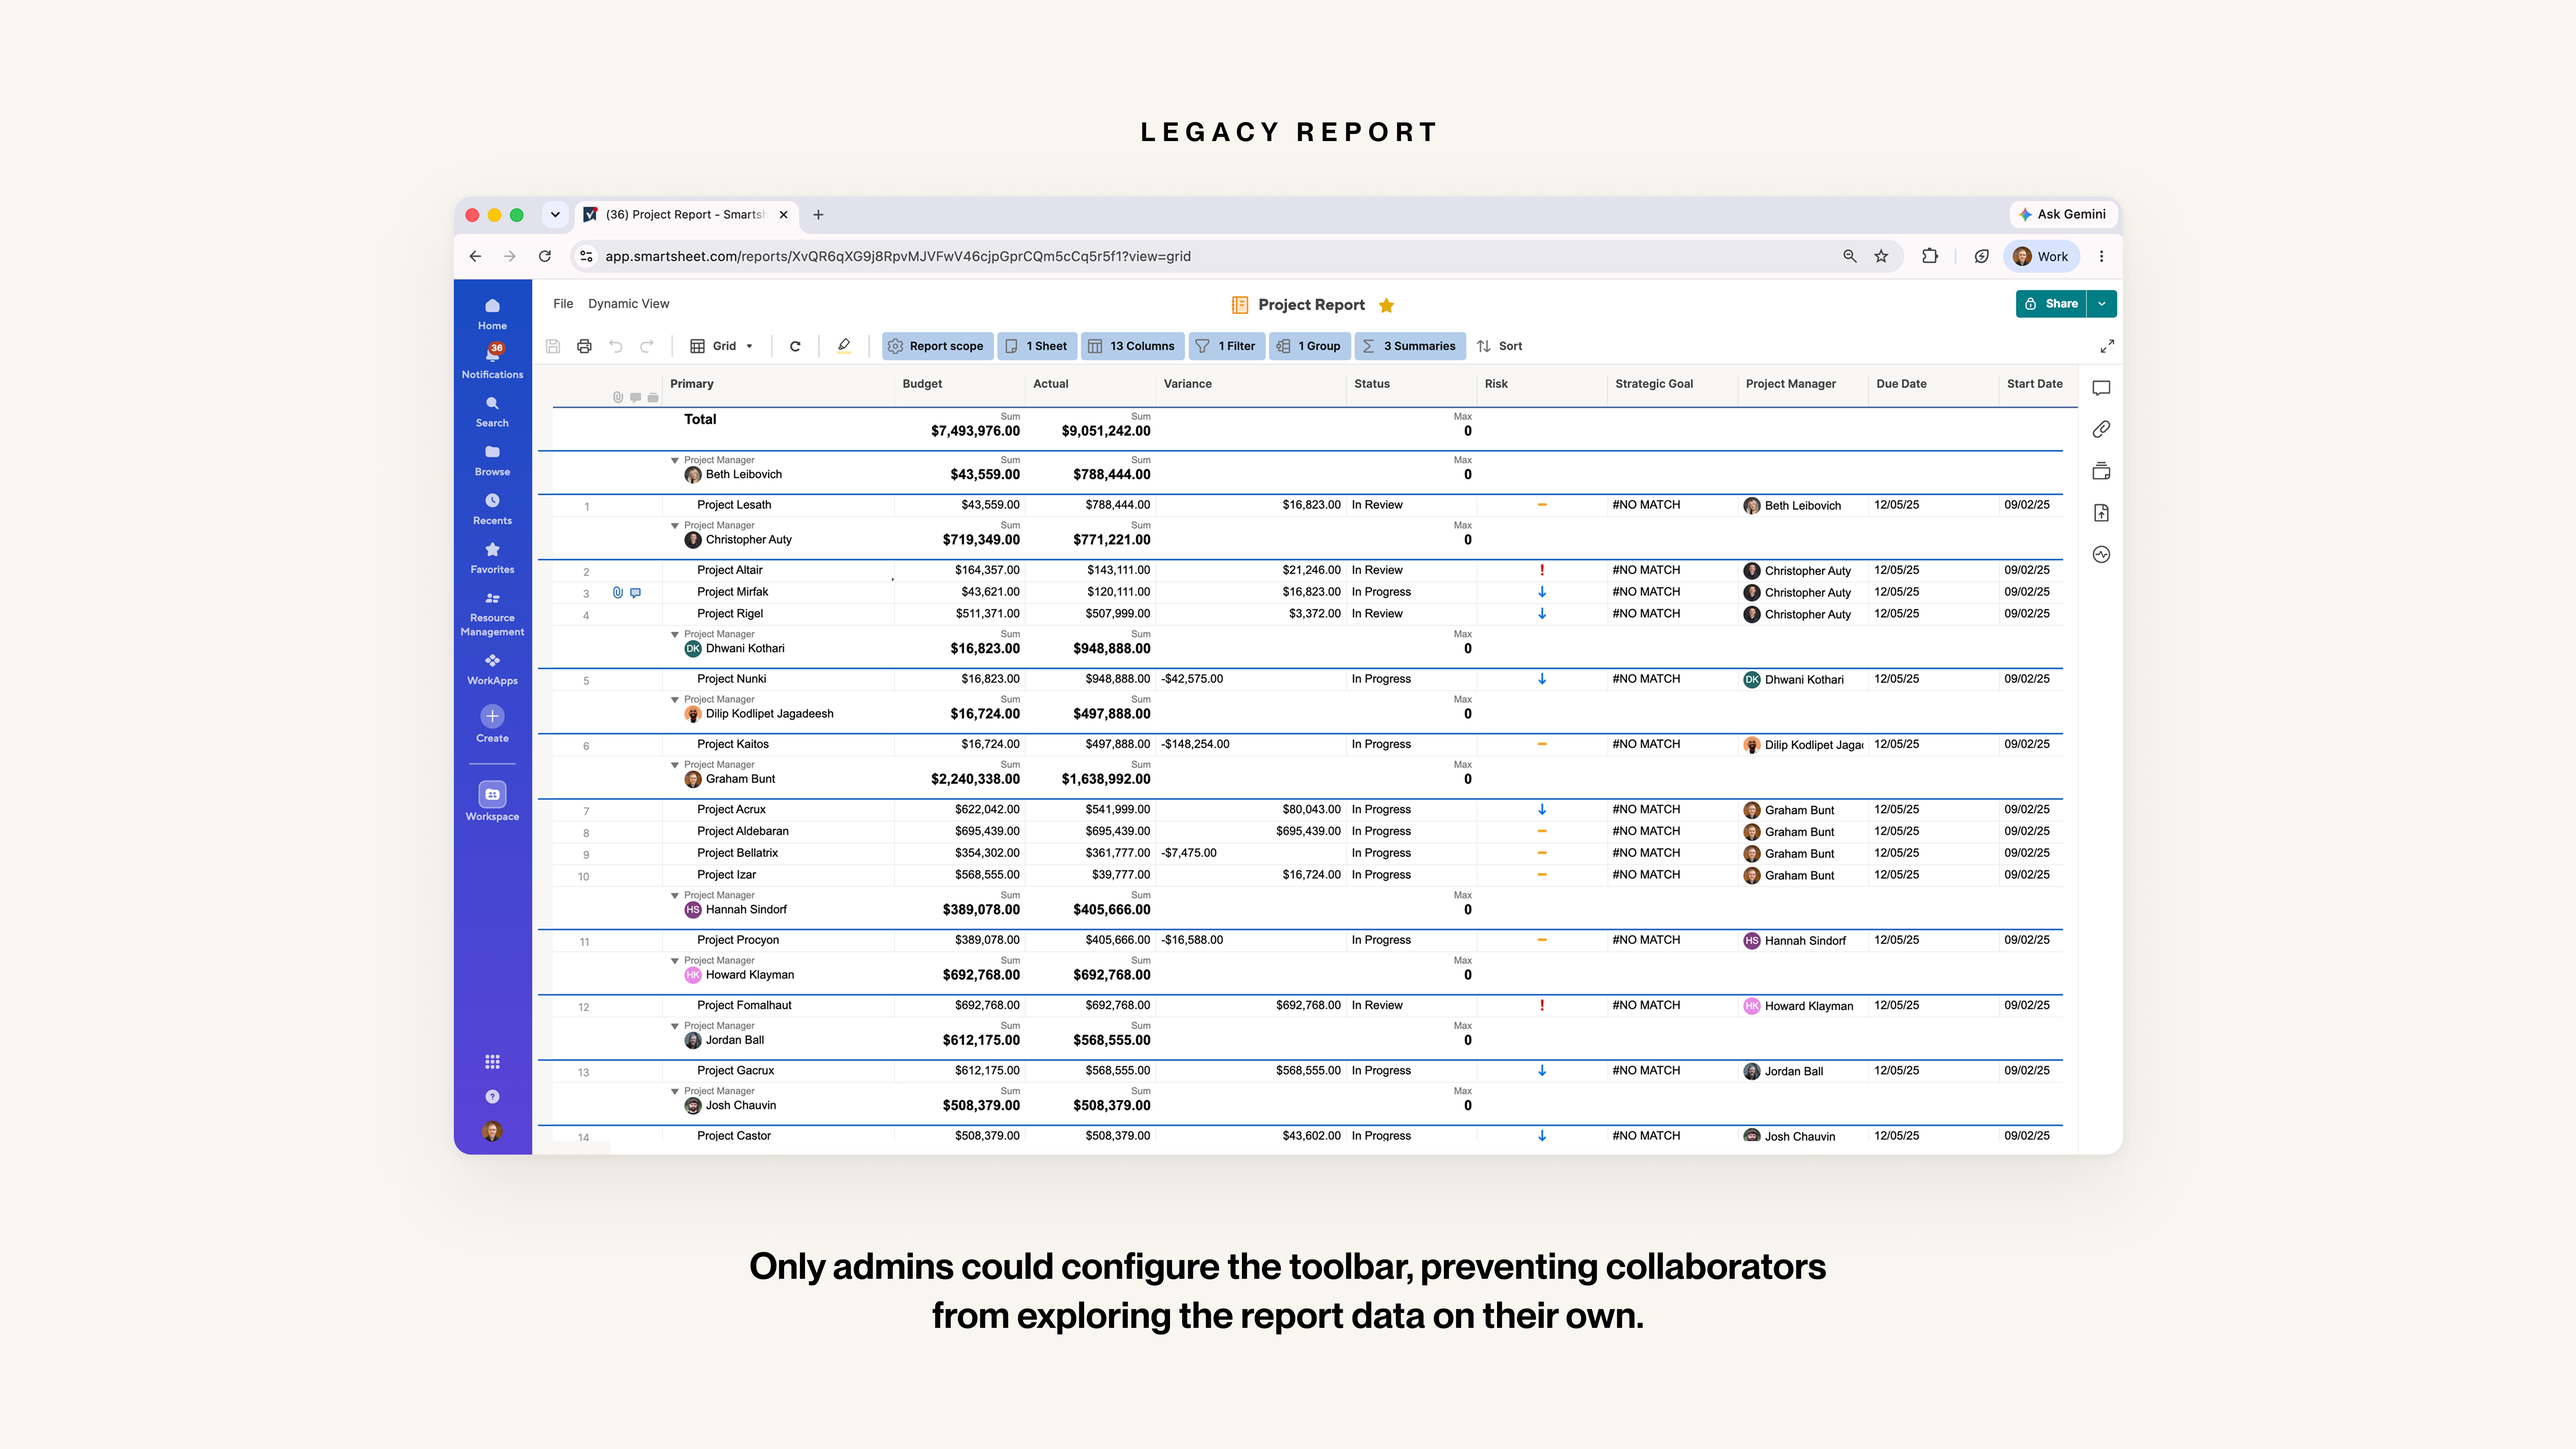
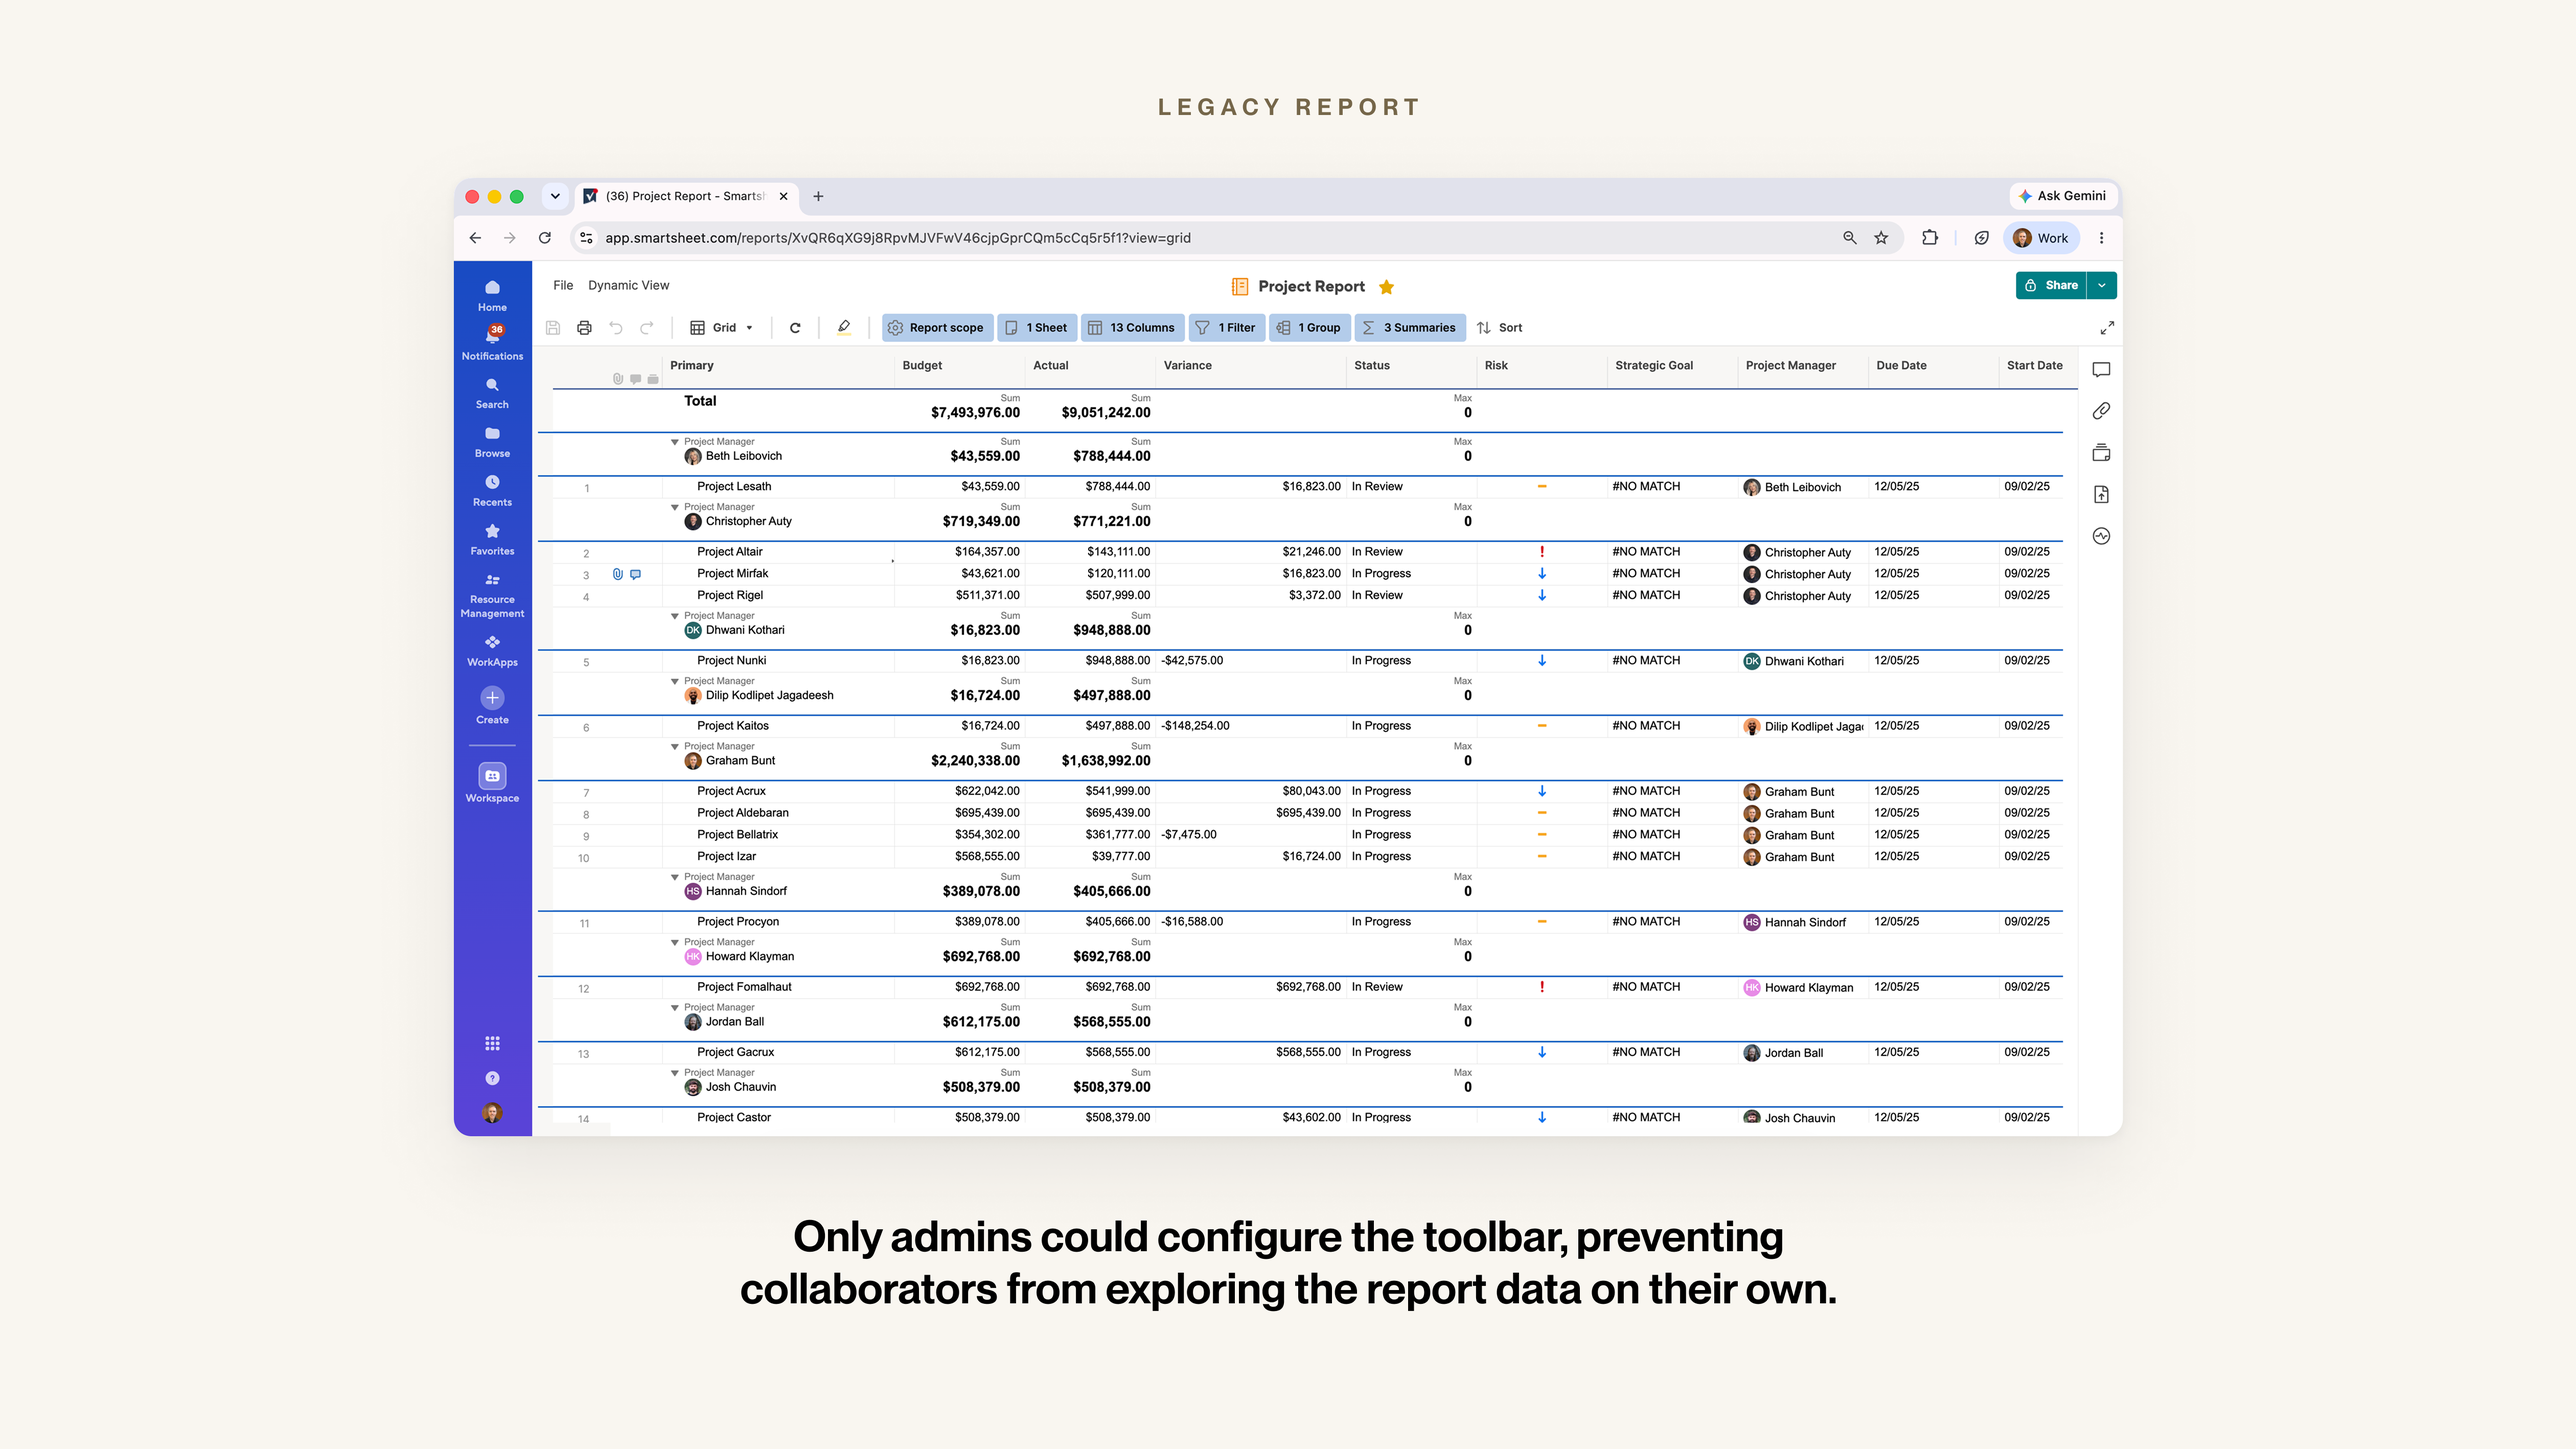
Refine Smartsheet ambiguity section

diff --git a/src/app/globals.css b/src/app/globals.css
@@ -4429,6 +4429,38 @@ body {
   gap: 120px;
 }
 
+.case-study-page.is-smartsheet-reports .case-study-smartsheet-pulling-section[aria-label="Paradigm"] {
+  --smartsheet-pivot-bg: #151515;
+  --smartsheet-pivot-body-gap: 120px;
+  --smartsheet-pivot-transition-depth: min(472.5px, calc(28.125vw - 11.25px));
+
+  position: relative;
+  isolation: isolate;
+}
+
+.case-study-page.is-smartsheet-reports .case-study-smartsheet-pulling-section[aria-label="Paradigm"]::before {
+  content: "";
+  position: absolute;
+  top: calc(100% - var(--smartsheet-pivot-transition-depth));
+  right: calc(50% - 50vw);
+  bottom: calc(-1 * var(--smartsheet-pivot-body-gap));
+  left: calc(50% - 50vw);
+  z-index: 0;
+  pointer-events: none;
+  background: linear-gradient(
+    to bottom,
+    rgba(21, 21, 21, 0) 0%,
+    rgba(21, 21, 21, 0.72) 34%,
+    var(--smartsheet-pivot-bg) 62%,
+    var(--smartsheet-pivot-bg) 100%
+  );
+}
+
+.case-study-page.is-smartsheet-reports .case-study-smartsheet-pulling-section[aria-label="Paradigm"] > * {
+  position: relative;
+  z-index: 1;
+}
+
 .case-study-structured-section {
   display: flex;
   width: 100%;
@@ -4723,7 +4755,7 @@ body {
   color: #ffffff;
   margin-right: calc(50% - 50vw);
   margin-left: calc(50% - 50vw);
-  padding: clamp(88px, 7vw, 128px) 20px;
+  padding: 0 20px clamp(88px, 7vw, 128px);
 }
 
 .case-study-smartsheet-pivot-band .case-study-spine-rail p,
@@ -4995,6 +5027,10 @@ body {
 
   .case-study-smartsheet-pulling-section {
     gap: 96px;
+  }
+
+  .case-study-page.is-smartsheet-reports .case-study-smartsheet-pulling-section[aria-label="Paradigm"] {
+    --smartsheet-pivot-body-gap: 96px;
   }
 
   .case-study-structured-section {

diff --git a/src/content/work.ts b/src/content/work.ts
@@ -457,7 +457,7 @@ export const featuredWork: WorkItem = {
       type: "spotlight",
       title: "Defending the report's right to exist",
       body: [
-        "Our CPO posed an existential question: should reports exist as a separate asset? The question was fair. Reports, sheets, and dynamic views had begun to overlap, leaving customers unsure which tool was right for the job.",
+        "Before implementation, our CPO posed an existential question: should reports exist as a separate asset? The question was fair. Reports, sheets, and dynamic views had begun to overlap, leaving customers unsure which tool was right for the job.",
         "I aligned three teams around a strategy to keep reports separate, avoiding a costly migration of millions of legacy reports while clarifying its role within the platform and driving greater parity between sheets and reports.",
       ],
       media: {
